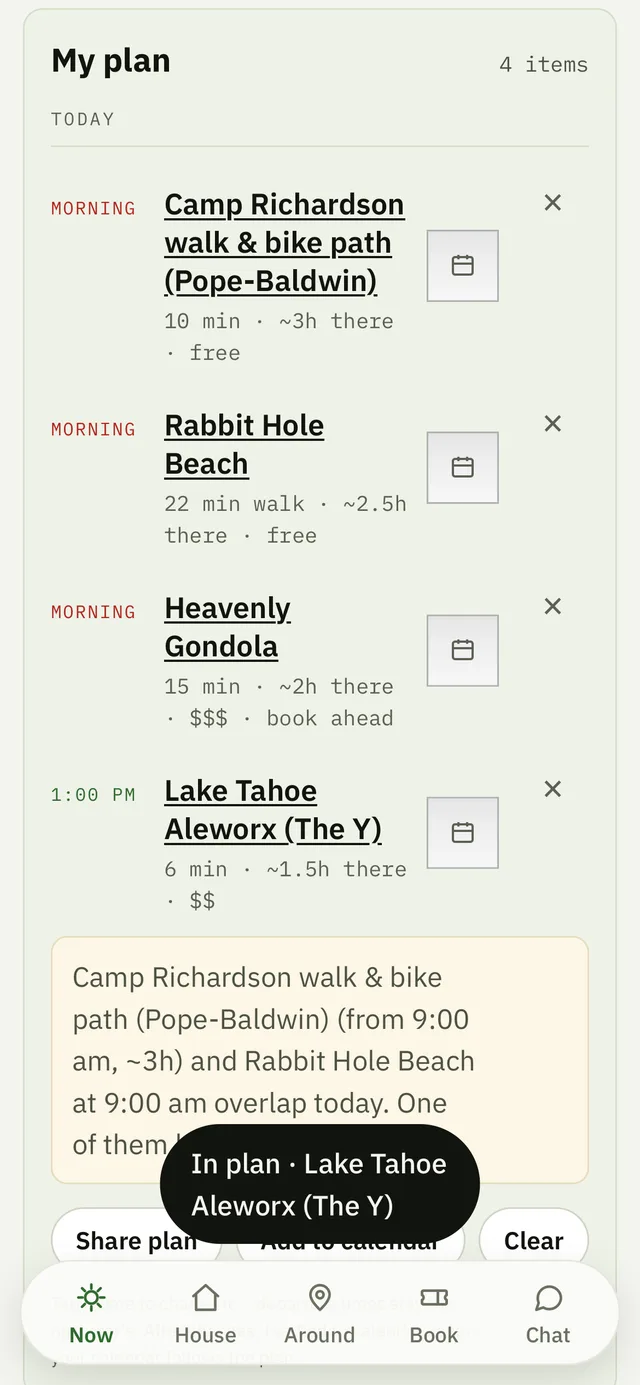
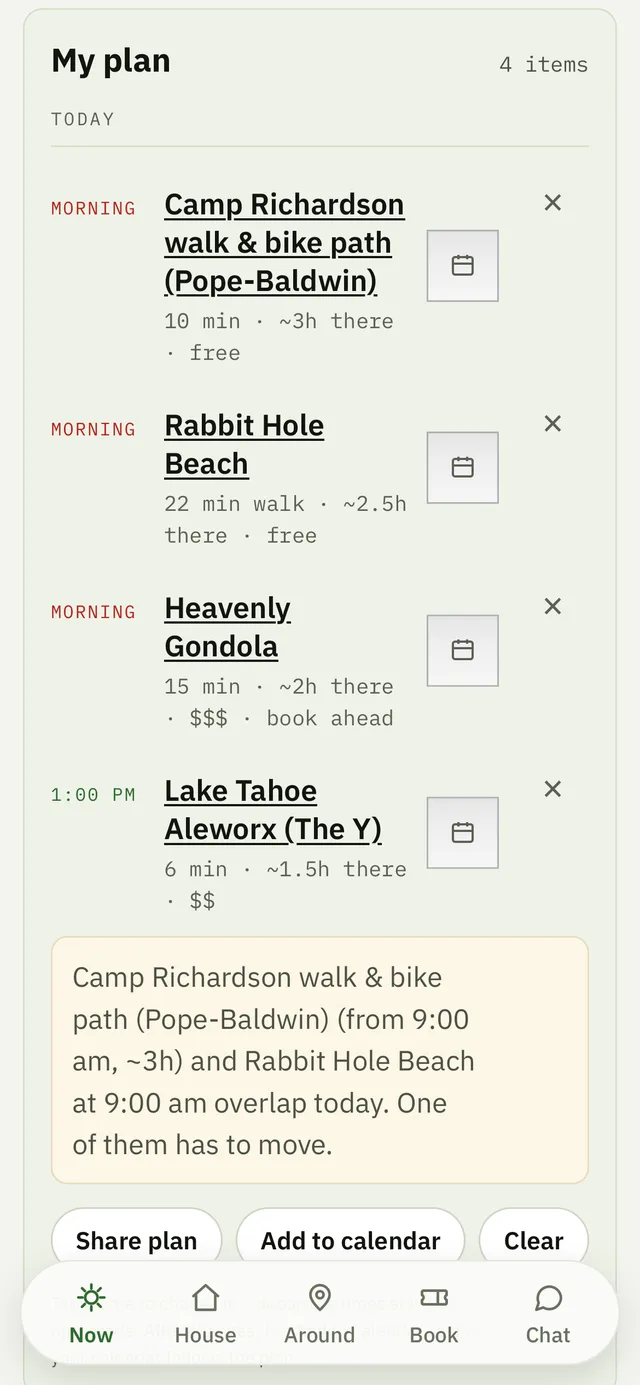
The reviewer's four: nothing dead, nothing lost, nothing flaky
An agent read the page as a booking parent on an iPhone and came back
with four real complaints. Tapping a screenshot did nothing — each now
opens its live surface in a new tab. Ask the concierge swallowed the
listing mid-pitch — the guide links open beside it now. The plan shot
hid Add to calendar behind its own toast — recaptured after the toast
dies. And the RU caption's 'приходит местами' read as 'arrives
intermittently' — it says 'карточками мест' now, which is what it
meant.

Changed region(s): [[0.25, 0.8072, 0.75, 0.9004]]

diff --git a/index.html b/index.html
@@ -247,24 +247,24 @@
     <p style="margin-top:12px;max-width:60ch;color:#b9c0aa;" data-t="conSub">Not a chatbot with canned answers: an AI agent built by the owner on frontier models, with real knowledge of this house, this lake, and your dates — and the agency to plan, replan, and act on your behalf.</p>
     <div style="display:flex;gap:16px;overflow-x:auto;margin:22px -32px 4px;padding:6px 32px 14px;scroll-snap-type:x mandatory;-webkit-overflow-scrolling:touch;">
       <figure style="margin:0;flex:none;width:212px;scroll-snap-align:center;">
-        <span style="display:block;position:relative;background:#000;border-radius:30px;padding:7px;border:1px solid #2a2e24;box-shadow:12px 16px 34px rgba(0,0,0,.5);">
+        <a href="https://tahoe.ai-host.ai/" target="_blank" rel="noopener" aria-label="Open the live guide — the Talk button is on the first screen" style="display:block;position:relative;background:#000;border-radius:30px;padding:7px;border:1px solid #2a2e24;box-shadow:12px 16px 34px rgba(0,0,0,.5);">
           <span style="position:absolute;top:4.8%;left:50%;transform:translateX(-50%);width:29%;aspect-ratio:100/29;background:#0a0b08;border-radius:999px;z-index:2;" aria-hidden="true"></span>
           <img src="photos/ph-ask.webp" alt="The Ask sheet: one button to talk to the house, one to call it" width="640" height="1385" loading="lazy" style="width:100%;height:auto;aspect-ratio:390/844;object-fit:cover;object-position:top;border-radius:23px;display:block;">
-        </span>
+        </a>
         <figcaption class="mono" style="font-size:12px;color:#b9c0aa;margin-top:10px;line-height:1.45;text-align:center;" data-t="capShot1">Say it out loud — or call the house's own number</figcaption>
       </figure>
       <figure style="margin:0;flex:none;width:212px;scroll-snap-align:center;">
-        <span style="display:block;position:relative;background:#000;border-radius:30px;padding:7px;border:1px solid #2a2e24;box-shadow:12px 16px 34px rgba(0,0,0,.5);">
+        <a href="https://tahoe.ai-host.ai/#chat" target="_blank" rel="noopener" aria-label="Open the live chat with the concierge" style="display:block;position:relative;background:#000;border-radius:30px;padding:7px;border:1px solid #2a2e24;box-shadow:12px 16px 34px rgba(0,0,0,.5);">
           <span style="position:absolute;top:4.8%;left:50%;transform:translateX(-50%);width:29%;aspect-ratio:100/29;background:#0a0b08;border-radius:999px;z-index:2;" aria-hidden="true"></span>
           <img src="photos/ph-chat.webp" alt="The chat: the concierge answers a swimming question with place cards" width="640" height="1385" loading="lazy" style="width:100%;height:auto;aspect-ratio:390/844;object-fit:cover;object-position:top;border-radius:23px;display:block;">
-        </span>
+        </a>
         <figcaption class="mono" style="font-size:12px;color:#b9c0aa;margin-top:10px;line-height:1.45;text-align:center;" data-t="capShot2">Ask in chat — answers come with places, not links</figcaption>
       </figure>
       <figure style="margin:0;flex:none;width:212px;scroll-snap-align:center;">
-        <span style="display:block;position:relative;background:#000;border-radius:30px;padding:7px;border:1px solid #2a2e24;box-shadow:12px 16px 34px rgba(0,0,0,.5);">
+        <a href="https://tahoe.ai-host.ai/" target="_blank" rel="noopener" aria-label="Open the live guide — build your own plan" style="display:block;position:relative;background:#000;border-radius:30px;padding:7px;border:1px solid #2a2e24;box-shadow:12px 16px 34px rgba(0,0,0,.5);">
           <span style="position:absolute;top:4.8%;left:50%;transform:translateX(-50%);width:29%;aspect-ratio:100/29;background:#0a0b08;border-radius:999px;z-index:2;" aria-hidden="true"></span>
           <img src="photos/ph-plan.webp" alt="My plan: the day's rows with editable times, Share and Add to calendar" width="640" height="1385" loading="lazy" style="width:100%;height:auto;aspect-ratio:390/844;object-fit:cover;object-position:top;border-radius:23px;display:block;">
-        </span>
+        </a>
         <figcaption class="mono" style="font-size:12px;color:#b9c0aa;margin-top:10px;line-height:1.45;text-align:center;" data-t="capShot3">Keep what fits — the plan goes to your calendar</figcaption>
       </figure>
     </div>
@@ -304,8 +304,8 @@
       </div>
     </div>
     <div style="display:flex;gap:10px;flex-wrap:wrap;margin-top:24px;">
-      <a class="btn btn--md" style="border-color:rgba(255,255,255,.55);color:#fff;" href="https://tahoe.ai-host.ai/#chat" data-t="conBtnAsk">Ask the concierge</a>
-      <a class="btn btn--md" style="border-color:rgba(255,255,255,.55);color:#fff;" id="link-how" href="https://tahoe-guide-landing.vercel.app/" data-t="conBtnHow">How the concierge works</a>
+      <a class="btn btn--md" style="border-color:rgba(255,255,255,.55);color:#fff;" href="https://tahoe.ai-host.ai/#chat" target="_blank" rel="noopener" data-t="conBtnAsk">Ask the concierge</a>
+      <a class="btn btn--md" style="border-color:rgba(255,255,255,.55);color:#fff;" id="link-how" href="https://tahoe-guide-landing.vercel.app/" target="_blank" rel="noopener" data-t="conBtnHow">How the concierge works</a>
     </div>
     <p class="mono" style="font-size:12px;color:#9aa189;margin-top:18px;" data-t="conDisc">Tahoe Concierge is an AI assistant powered by AI-HOST™. It can make mistakes — confirm what matters, and an emergency is always 911.</p>
     <p class="mono" style="font-size:12px;color:#9aa189;margin-top:4px;" data-t="conCredit">Powered by AI-HOST™ · technology by New-I, Inc.</p>
@@ -365,7 +365,7 @@
         <a class="btn btn--md" href="https://www.booking.com/hotel/us/tahoe-tuolumne-sauna-soak-repeat.html" target="_blank" rel="noopener">Booking.com</a>
         <a class="btn btn--md" href="https://www.google.com/travel/hotels/entity/CgsQ_4-3lqmQ2ubrARAC/overview" target="_blank" rel="noopener">Google</a>
       </div>
-      <p class="mono" style="font-size:13px;color:#6b7060;margin-top:4px;"><span data-t="bookAsk1">Questions before booking?</span> <a href="https://tahoe.ai-host.ai/#chat" data-t="bookAsk2">Ask the concierge</a> — <span data-t="bookAsk3">most of the guide is open to everyone.</span> <a href="https://wa.me/14084290090" target="_blank" rel="noopener" data-t="bookAskWa">Or WhatsApp the owner directly.</a></p>
+      <p class="mono" style="font-size:13px;color:#6b7060;margin-top:4px;"><span data-t="bookAsk1">Questions before booking?</span> <a href="https://tahoe.ai-host.ai/#chat" target="_blank" rel="noopener" data-t="bookAsk2">Ask the concierge</a> — <span data-t="bookAsk3">most of the guide is open to everyone.</span> <a href="https://wa.me/14084290090" target="_blank" rel="noopener" data-t="bookAskWa">Or WhatsApp the owner directly.</a></p>
     </div>
   </div>
 </section>
@@ -504,7 +504,7 @@ const STRINGS = {
     conP2: 'А потом вы приезжаете — и план начинает работать. Первый экран показывает погоду у дома и живую камеру на озере; если день изменился, консьерж пересобирает план — каяки сдвигаются на завтра, сауна поднимается на сегодня. Любой вопрос о доме — как греется сауна, когда выносить мусор — в одном вопросе, в чате или по телефону вообще без интернета.',
     conQuote: 'Спланируйте до приезда. Пусть погода меняется. План успеет.',
     capShot1: 'Скажите вслух — или позвоните на собственный номер дома',
-    capShot2: 'Спросите в чате — ответ приходит местами, а не ссылками',
+    capShot2: 'Спросите в чате — ответ приходит карточками мест, а не ссылками',
     capShot3: 'Оставьте своё — план уедет в ваш календарь',
     stripNote: 'настоящие экраны, листайте →',
     step1: 'Забронируйте дом — ссылка на гид придёт с подтверждением',
